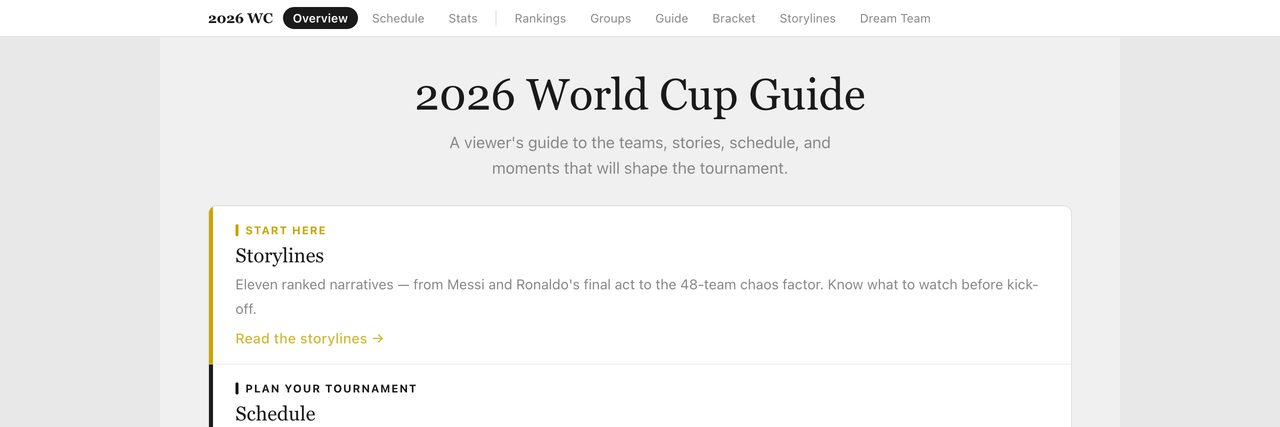
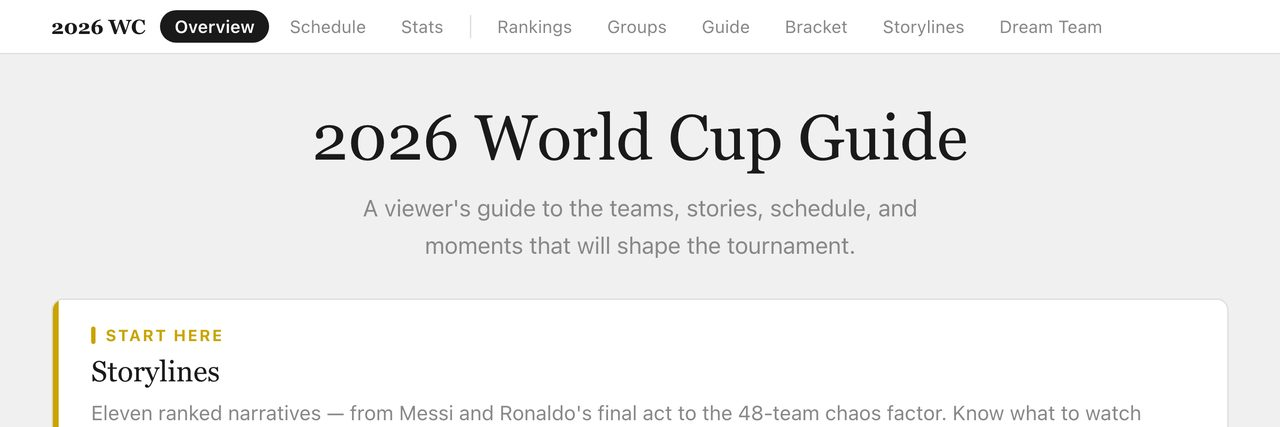
Link The Local Season and Seasonal; open the "Where you are" group
Step 5. Both were already deployed on GitHub Pages and serving at
bdavey.co — they had simply never been linked from anywhere, so the
work here was connecting them, not shipping them.

- New third group "Where you are"; Dockside Market moves into it from
  "Patterns underneath" as POSITIONING.md said it would
- The Local Season links the two finished city-months directly
- Homepage now carries nine projects across three groups
- Re-shot the World Cup Guide and Local Season thumbnails: both heroes
  are built for wide viewports and read as empty at 1280px. Narrower
  capture for the first, and the Local Season crop targets its title
  block rather than the tall blank header above it
- POSITIONING.md: record the "Before You Go" / "The Local Season" name
  split and the /seasonal-basket/ URL mismatch as open threads

diff --git a/index.html b/index.html
@@ -121,6 +121,38 @@
               <a class="entry-link-primary" href="/operation-epic-fury/">View →</a>
             </p>
           </li>
+        </ul>
+      </div>
+
+      <div class="section">
+        <p class="section-label">Where you are</p>
+        <ul class="entry-list">
+          <li class="entry">
+            <a class="entry-thumb" href="/the-local-season/" tabindex="-1" aria-hidden="true">
+              <img src="/assets/projects/local-season.jpg" alt=""
+                   width="1280" height="427" loading="lazy" decoding="async">
+            </a>
+            <h2 class="entry-title">The Local Season</h2>
+            <p class="entry-desc">Not the best month to visit. The month a city is most itself — written as routines, not attractions.</p>
+            <p class="entry-links">
+              <a class="entry-link-primary" href="/the-local-season/">View →</a>
+              <span class="entry-sep">·</span>
+              <a href="/the-local-season/san-diego-september.html">San Diego, September</a>
+              <span class="entry-sep">·</span>
+              <a href="/the-local-season/seoul-october.html">Seoul, October</a>
+            </p>
+          </li>
+          <li class="entry">
+            <a class="entry-thumb" href="/seasonal-basket/" tabindex="-1" aria-hidden="true">
+              <img src="/assets/projects/seasonal.jpg" alt=""
+                   width="1280" height="427" loading="lazy" decoding="async">
+            </a>
+            <h2 class="entry-title">Seasonal</h2>
+            <p class="entry-desc">Keep the meal. Change the season. Your cooking stays as it is, and starts to taste like the month.</p>
+            <p class="entry-links">
+              <a class="entry-link-primary" href="/seasonal-basket/">View →</a>
+            </p>
+          </li>
           <li class="entry">
             <a class="entry-thumb" href="/dockside-market/" tabindex="-1" aria-hidden="true">
               <img src="/assets/projects/dockside.jpg" alt=""

diff --git a/POSITIONING.md b/POSITIONING.md
@@ -105,15 +105,12 @@ Current groups:
 - **Worth your attention** — things that answer *what deserves your time, and
   why.* Why Today, Must Watch, World Cup Guide, Morning Brief.
 - **Patterns underneath** — things that make an invisible mechanism visible.
-  Debt Cycle Explainer, Operation Epic Fury, Dockside Market.
+  Debt Cycle Explainer, Operation Epic Fury.
+- **Where you are** — things that change how a place or a season feels. The
+  Local Season, Seasonal, Dockside Market.
 
-A third group, **Where you are** — things that change how a place or a season
-feels — opens when Before You Go and Seasonal deploy. Dockside Market moves into
-it at that point; it sits under "Patterns underneath" for now because a group of
-one reads as an empty room.
-
-That's the rule for adding groups generally: a group earns a header at two
-projects, not one.
+The rule for adding groups: a group earns a header at two projects, not one. A
+single project under its own heading reads as an empty room.
 
 Secondary material (photos) lives in the footer, reachable but not competing.
 Photos stays because outdoor curiosity is part of the same instinct — noticing —
@@ -123,9 +120,12 @@ placeholder.
 
 ## Open threads
 
-- **Before You Go** and **Seasonal** have finished prototypes in their repos and
-  aren't deployed. They're two of the strongest expressions of the claim. Deploy
-  them.
+- **Naming.** "Before You Go" was the working name for what now ships as **The
+  Local Season**. The homepage uses the live brand so the title matches what a
+  visitor sees on arrival. Pick one name and retire the other.
+- **Seasonal's URL** is `/seasonal-basket/` because that's the repo name, but
+  the product is called Seasonal everywhere else. Rename the repo, or accept the
+  mismatch.
 - **Same Sun, Different Day** doesn't exist yet and is probably the single
   purest version of the idea: sunrise/sunset data as a way of understanding how
   a place feels. The raw material is already in The Local Season's schema
